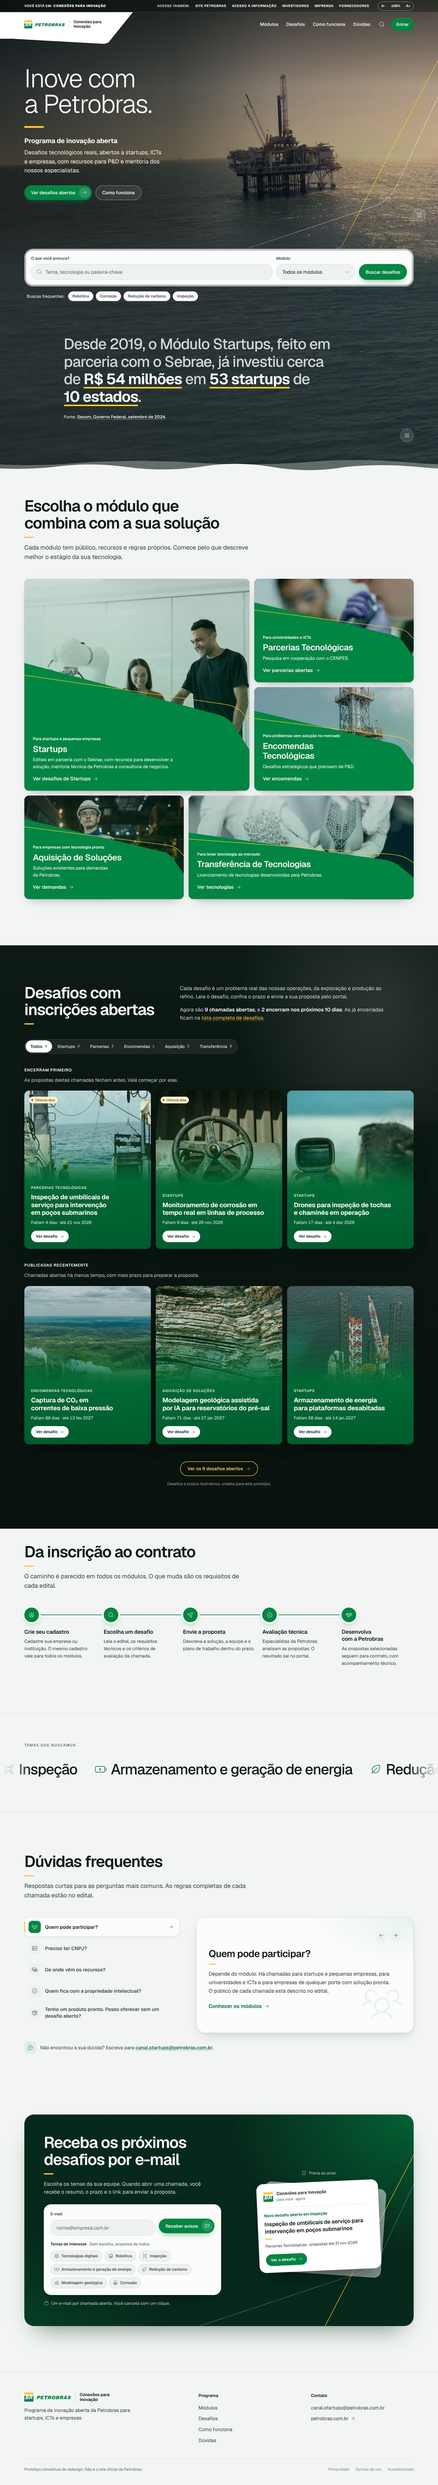
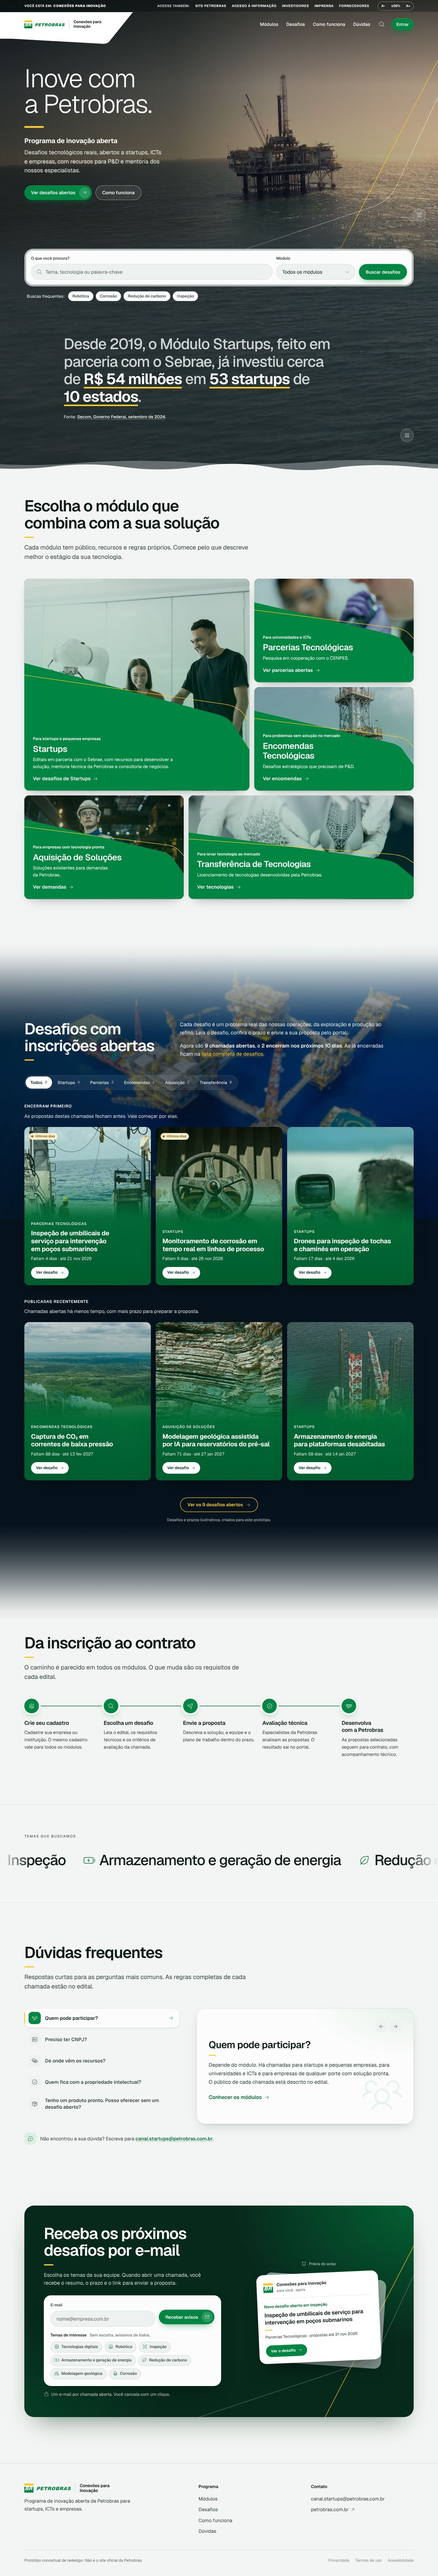
Vitrine de desafios com transição suave e foto de fundo fixa
- Entrada e saída em degradês longos e com curva: a página clara se dissolve na
  foto e volta ao claro no fim da seção
- Fundo com a vista aérea de uma plataforma no mar azul (Pexels, crédito no README),
  levemente desfocada e com véu azul-escuro; a foto fica presa à tela (sticky)
  enquanto o conteúdo rola por cima e para no fim da seção
- Leve aproximação da foto ligada à rolagem, onde o navegador suporta
- Cards entram ao aparecer na tela, em sequência por coluna; tudo desligado com
  movimento reduzido
- Contraste dos textos sobre a foto medido em 10 posições de rolagem
- Atualiza DESIGN.md, README e capturas

Claude-Session: https://claude.ai/code/session_01RAqb2iraTZncBbEkAKZSUg

diff --git a/assets/css/styles.css b/assets/css/styles.css
@@ -2306,27 +2306,106 @@ html:not(.js) .statement__text strong::after {
 /* Inspirada nos cards de tecnologia do petrobras.com.br: título à esquerda e texto à direita,
    grupos com rótulo em caixa alta, fotos com degradê verde e botão branco. */
 .showcase {
+  --fade: clamp(200px, 22vw, 340px);
   position: relative;
   isolation: isolate;
-  overflow: hidden;
-  padding-block: clamp(72px, 9vw, 128px) clamp(80px, 10vw, 136px);
   color: #ffffff;
-  background: linear-gradient(180deg, #0c1915 0%, #08120f 100%);
+  background: #06131d;
+  view-timeline-name: --showcase;
   --focus: #ffffff;
 }
-/* plataforma em cinza, bem discreta, no canto direito */
+/* Foto fixa: uma camada do tamanho da seção, atrás do conteúdo, com a foto presa ao topo
+   da tela (sticky). Ela para no fim da seção, sem invadir a seção seguinte. */
 .showcase__bg {
   position: absolute;
+  inset: 0;
+  z-index: 0;
+}
+.showcase__sticky {
+  position: sticky;
   top: 0;
+  height: 100vh;
+  height: 100lvh;
+  overflow: hidden;
+}
+/* vista aérea do mar com a plataforma: levemente desfocada, para os cards ficarem em primeiro plano */
+.showcase__photo {
+  width: 100%;
+  height: 100%;
+  object-fit: cover;
+  object-position: 55% 50%;
+  transform-origin: 50% 50%;
+  filter: blur(2px) saturate(1.08);
+}
+/* véu azul-escuro para leitura: mais forte à esquerda (onde começam os textos) e nas bordas */
+.showcase__sticky::after {
+  content: "";
+  position: absolute;
+  inset: 0;
+  background:
+    radial-gradient(120% 85% at 60% 50%, rgb(3 14 24 / 0) 30%, rgb(3 14 24 / 0.5) 100%),
+    linear-gradient(90deg, rgb(3 14 24 / 0.5) 0%, rgb(3 14 24 / 0.2) 55%, rgb(3 14 24 / 0.1) 100%),
+    linear-gradient(180deg, rgb(3 14 24 / 0.55) 0%, rgb(3 14 24 / 0.42) 45%, rgb(3 14 24 / 0.6) 100%);
+}
+/* Entrada e saída suaves: a página clara se dissolve na foto, num degradê com curva */
+.showcase::before,
+.showcase::after {
+  content: "";
+  position: absolute;
+  left: 0;
   right: 0;
-  z-index: -1;
-  width: min(62%, 980px);
-  height: min(100%, 980px);
-  background: url("../media/poster-1600.webp") 72% 40% / cover no-repeat;
-  filter: grayscale(1) contrast(1.15);
-  opacity: 0.2;
-  -webkit-mask-image: radial-gradient(75% 70% at 80% 18%, #000 0%, transparent 75%);
-  mask-image: radial-gradient(75% 70% at 80% 18%, #000 0%, transparent 75%);
+  z-index: 1;
+  height: var(--fade);
+  pointer-events: none;
+}
+.showcase::before {
+  top: 0;
+  background: linear-gradient(
+    180deg,
+    rgb(var(--bg-rgb)) 0%,
+    rgb(var(--bg-rgb) / 0.94) 10%,
+    rgb(var(--bg-rgb) / 0.8) 22%,
+    rgb(var(--bg-rgb) / 0.58) 38%,
+    rgb(var(--bg-rgb) / 0.34) 56%,
+    rgb(var(--bg-rgb) / 0.15) 74%,
+    rgb(var(--bg-rgb) / 0.04) 90%,
+    rgb(var(--bg-rgb) / 0) 100%
+  );
+}
+.showcase::after {
+  bottom: 0;
+  background: linear-gradient(
+    0deg,
+    rgb(var(--bg-rgb)) 0%,
+    rgb(var(--bg-rgb) / 0.94) 10%,
+    rgb(var(--bg-rgb) / 0.8) 22%,
+    rgb(var(--bg-rgb) / 0.58) 38%,
+    rgb(var(--bg-rgb) / 0.34) 56%,
+    rgb(var(--bg-rgb) / 0.15) 74%,
+    rgb(var(--bg-rgb) / 0.04) 90%,
+    rgb(var(--bg-rgb) / 0) 100%
+  );
+}
+.showcase__inner {
+  position: relative;
+  z-index: 2;
+  padding-block: calc(var(--fade) * 0.78) var(--fade);
+}
+/* leve aproximação da foto ao longo da rolagem, onde o navegador suporta */
+@supports (animation-timeline: view()) {
+  .showcase__photo {
+    animation: showcase-drift linear both;
+    animation-timeline: --showcase;
+    animation-range: cover 0% cover 100%;
+  }
+  @keyframes showcase-drift {
+    from {
+      transform: scale(1.14) translateY(-2%);
+    }
+    to {
+      transform: scale(1.02) translateY(2%);
+    }
+  }
 }
 .showcase__head {
   display: grid;
@@ -2350,7 +2429,7 @@ html:not(.js) .statement__text strong::after {
   max-width: 62ch;
   font-size: 1.0625rem;
   line-height: 1.6;
-  color: rgb(255 255 255 / 0.8);
+  color: rgb(255 255 255 / 0.9);
 }
 .showcase__intro p + p {
   margin-top: 16px;
@@ -2408,7 +2487,7 @@ html:not(.js) .statement__text strong::after {
   max-width: 70ch;
   margin-top: 10px;
   line-height: 1.55;
-  color: rgb(255 255 255 / 0.76);
+  color: rgb(255 255 255 / 0.86);
 }
 .sgrid {
   display: grid;
@@ -2535,9 +2614,18 @@ html:not(.js) .statement__text strong::after {
   outline: 2px solid #ffffff;
   outline-offset: 3px;
 }
-.pcard.is-new {
-  animation: card-in 560ms var(--ease-out) both;
-  animation-delay: calc(var(--i, 0) * 60ms);
+/* entrada ao aparecer na tela, em sequência por coluna */
+.js .pcard:not(.pcard--skeleton) {
+  opacity: 0;
+  transform: translateY(28px) scale(0.98);
+  transition:
+    opacity 700ms var(--ease-out),
+    transform 900ms var(--ease-out);
+  transition-delay: calc(var(--col, 0) * 90ms);
+}
+.js .pcard.is-in {
+  opacity: 1;
+  transform: none;
 }
 @media (hover: hover) and (pointer: fine) {
   .pcard__link:hover {
@@ -2629,7 +2717,7 @@ html:not(.js) .statement__text strong::after {
 }
 .showcase__note {
   font-size: 0.8125rem;
-  color: rgb(255 255 255 / 0.6);
+  color: rgb(255 255 255 / 0.74);
 }
 @media (max-width: 1023px) {
   .showcase__head {
@@ -2650,9 +2738,8 @@ html:not(.js) .statement__text strong::after {
   .pcard__link {
     padding: 18px;
   }
-  .showcase__bg {
-    width: 100%;
-    opacity: 0.14;
+  .showcase__photo {
+    object-position: 58% 50%;
   }
 }
 
@@ -4522,7 +4609,6 @@ html:not(.js) .statement__text strong::after {
     transition: opacity 300ms ease;
   }
   .card.is-new,
-  .pcard.is-new,
   .faq__answer,
   .cta__success,
   .auth-success {
@@ -4570,6 +4656,15 @@ html:not(.js) .statement__text strong::after {
   .hero__line {
     animation: none !important;
     clip-path: none !important;
+  }
+  .showcase__photo {
+    animation: none !important;
+    transform: none !important;
+  }
+  .js .pcard:not(.pcard--skeleton) {
+    opacity: 1;
+    transform: none;
+    transition: none;
   }
   .btn:active,
   .chip:active {

diff --git a/assets/js/app.js b/assets/js/app.js
@@ -146,7 +146,7 @@
     var s = status(c);
     var prazo = addDays(c.prazoDias);
     return (
-      '<li class="pcard pcard--' + s.key + ' is-new" style="--i:' + (i || 0) + '" data-item>' +
+      '<li class="pcard pcard--' + s.key + '" style="--col:' + ((i || 0) % 3) + '" data-item>' +
       '<a class="pcard__link" href="desafio.html?id=' + encodeURIComponent(c.id) + '" aria-label="' +
       esc(c.titulo + ". " + m.nome + ", " + s.label.toLowerCase() + ". Propostas até " + fmtShort(prazo) + ", " + s.left.toLowerCase() + ".") + '">' +
       '<img class="pcard__img" src="assets/media/desafios/' + c.id + '.webp" alt="" width="1200" height="800" loading="lazy" style="object-position:' + (c.foco == null ? 50 : c.foco) + '% 50%">' +
@@ -163,7 +163,7 @@
   /* Quando um grupo tem menos de 3 desafios, o espaço vira um atalho para a lista */
   function moreCardHTML(href, label) {
     return (
-      '<li class="pcard pcard--more"><a class="pcard__link" href="' + href + '">' +
+      '<li class="pcard pcard--more" style="--col:2"><a class="pcard__link" href="' + href + '">' +
       '<span class="pcard__more-icon" aria-hidden="true"><i class="ph-light ph-squares-four"></i></span>' +
       '<span class="pcard__body"><span class="pcard__title">' + label + "</span>" +
       '<span class="pcard__btn">Abrir a lista <i class="ph-light ph-arrow-right" aria-hidden="true"></i></span></span></a></li>'
@@ -678,6 +678,32 @@
         );
       }
       list.innerHTML = html;
+      revealCards(list);
+    }
+
+    /* os cards sobem e aparecem quando entram na tela, em sequência por coluna */
+    function revealCards(scope) {
+      var cards = $$(".pcard", scope);
+      if (reduceMotion.matches || !("IntersectionObserver" in window)) {
+        cards.forEach(function (c) {
+          c.classList.add("is-in");
+        });
+        return;
+      }
+      var io = new IntersectionObserver(
+        function (entries) {
+          entries.forEach(function (e) {
+            if (e.isIntersecting) {
+              e.target.classList.add("is-in");
+              io.unobserve(e.target);
+            }
+          });
+        },
+        { rootMargin: "0px 0px -8% 0px", threshold: 0.12 }
+      );
+      cards.forEach(function (c) {
+        io.observe(c);
+      });
     }
 
     list.setAttribute("aria-busy", "true");

diff --git a/index.html b/index.html
@@ -231,7 +231,13 @@
 
     <!-- Desafios abertos -->
     <section class="showcase" id="desafios" aria-labelledby="desafios-title">
-      <div class="showcase__bg" aria-hidden="true"></div>
+      <!-- foto fixa no fundo enquanto o conteúdo da seção rola por cima -->
+      <div class="showcase__bg" aria-hidden="true">
+        <div class="showcase__sticky">
+          <img class="showcase__photo" src="assets/media/vitrine-1920.webp" srcset="assets/media/vitrine-1080.webp 1080w, assets/media/vitrine-1920.webp 1920w" sizes="100vw" alt="" width="1920" height="1280" loading="lazy" decoding="async">
+        </div>
+      </div>
+      <div class="showcase__inner">
       <div class="container">
         <header class="showcase__head reveal">
           <h2 class="title-xl" id="desafios-title">Desafios com inscrições abertas</h2>
@@ -263,6 +269,7 @@
           <a class="btn-outline" href="desafios.html" data-home-all>Ver desafios abertos <i class="ph-light ph-arrow-right" aria-hidden="true"></i></a>
           <p class="showcase__note">Desafios e prazos ilustrativos, criados para este protótipo.</p>
         </div>
+      </div>
       </div>
     </section>
 

diff --git a/DESIGN.md b/DESIGN.md
@@ -120,6 +120,7 @@ Contraste medido (WCAG):
   - Header sobre o vídeo: menu acima de 7,8:1, barra de serviços acima de 13:1.
   - Mar: frase acima de 7,3:1, fonte e "Buscas frequentes" acima de 8,5:1.
   - Cards de foto dos desafios (todas as fotos, de 390 a 1440 px, com os filtros): módulo acima de 5,3:1, dias e data acima de 6,4:1, título acima de 6,9:1.
+  - Textos da vitrine sobre a foto de fundo (10 posições de rolagem, de 390 a 1440 px): abertura acima de 5,3:1, descrição dos grupos acima de 6,3:1, rótulos acima de 9:1, nota final acima de 5,4:1.
 
 ### Tipografia
 
@@ -156,6 +157,8 @@ Geist (texto e títulos) e Geist Mono (contadores), auto-hospedadas, licença OF
 | Menu | Barra amarela cresce no hover e marca a página atual | Localização |
 | Hero | Fade + subida + desfoque, escalonado | Hierarquia na primeira dobra |
 | Linhas da marca | Entram uma vez, de cima para baixo (recorte com `clip-path`), depois do texto | Assinatura da marca sem disputar com o título |
+| Fundo da vitrine | Foto presa à tela (sticky) e leve aproximação ligada à rolagem (`animation-timeline`, onde o navegador suporta) | Profundidade: os cards passam por cima do mar |
+| Cards da vitrine | Sobem e aparecem quando entram na tela, em sequência por coluna (90 ms) | Ritmo de leitura, também ao trocar o filtro |
 | Vídeos | Hero e mar em loop vai-e-volta de 11 s a 0,8x; só tocam visíveis; os dois botões de pausa controlam ambos | Atmosfera e continuidade (WCAG 2.2.2) |
 | Ondas | Na saída do mar, espuma e borda na cor da página deslizam em sentidos opostos (19 s e 13 s); em retrato, uma onda também abre o mar | Passagem do mar para a página |
 | Seções e cards | Revelação no scroll, entrada escalonada após filtrar | Ritmo de leitura e mudança de estado |
@@ -181,7 +184,9 @@ As ondas e os vídeos só animam quando estão visíveis (`IntersectionObserver`
 - **Cards de módulo:** padrão "Acesse também" da Petrobras, em grade assimétrica, com Startups em destaque. Cada módulo tem uma foto que mostra o seu público: equipe de startup com braço robótico, laboratório (universidades e ICTs), torre de refinaria (problemas da operação), técnico em campo (soluções prontas) e peças impressas em 3D (tecnologia que sai para o mercado). Cada foto tem enquadramento próprio para o desktop e para cards estreitos (`--pos` e `--pos-sm`).
 - **Card de desafio (lista, detalhe):** moldura dupla; módulo com ícone em bloco verde claro e selo de estado com ponto; título com barra amarela; resumo em 2 linhas; tags; rodapé em faixa cinza com a contagem regressiva em Geist Mono, a data e a barra de prazo (verde, ou âmbar nos últimos dias).
 - **Desafios na home (vitrine):** inspirada nos cards de tecnologia do petrobras.com.br.
-  - Seção escura, com uma plataforma em cinza bem discreta no canto. Título à esquerda e texto à direita, com o resumo do momento ("9 chamadas abertas, e 2 encerram nos próximos 10 dias") e o link amarelo para a lista completa.
+  - Fundo: vista aérea de uma plataforma no mar azul, levemente desfocada e com véu azul-escuro. A foto fica presa à tela (sticky) enquanto o conteúdo rola por cima e para no fim da seção.
+  - Entrada e saída suaves: degradês longos e com curva (cerca de 300 px no desktop) fazem a página clara se dissolver na foto e voltar ao claro no fim.
+  - Título à esquerda e texto à direita, com o resumo do momento ("9 chamadas abertas, e 2 encerram nos próximos 10 dias") e o link amarelo para a lista completa.
   - Os desafios ficam em grupos com rótulo em caixa alta e uma frase: "Encerram primeiro" (os 3 prazos mais próximos) e "Publicadas recentemente" (os 3 mais novos entre os demais).
   - Card de foto: cada desafio tem a sua foto, inteira no alto e coberta por um degradê verde embaixo. Por cima vêm o módulo em caixa alta, o título em negrito, os dias e a data, e o botão branco "Ver desafio". Nos últimos dias, aparece um selo âmbar no canto. O verde atrás do texto é preso ao bloco de texto, então a leitura não depende da foto nem da altura do card.
   - O filtro por módulo vale para os grupos. Com menos de 3 desafios num grupo, o espaço vira um atalho para a lista do módulo. Sem nenhum, aparece o estado vazio.

diff --git a/README.md b/README.md
@@ -78,6 +78,8 @@ As fotos dos cards de módulo são do [Pexels](https://www.pexels.com/license/) 
 | Aquisição de Soluções | [Engineer in Industrial Factory Using Tablet](https://www.pexels.com/photo/engineer-in-industrial-factory-using-tablet-32845694/) | Sergey Sergeev |
 | Transferência de Tecnologias | [Peças metálicas impressas em 3D](https://www.pexels.com/photo/engineer-holding-clean-energy-battery-3861437/) | ThisIsEngineering |
 
+O fundo da vitrine de desafios é a foto [Aerial View of Complex Platform](https://www.pexels.com/photo/aerial-view-of-complex-platform-9336590/), de Aron Razif, também do Pexels (`assets/media/vitrine-1920.webp` e `vitrine-1080.webp`).
+
 Cada desafio também tem a sua foto (`assets/media/desafios/<id>.webp`), usada nos cards da home e no cabeçalho da página do desafio. Também são do Pexels:
 
 | Desafio | Foto | Autor |
